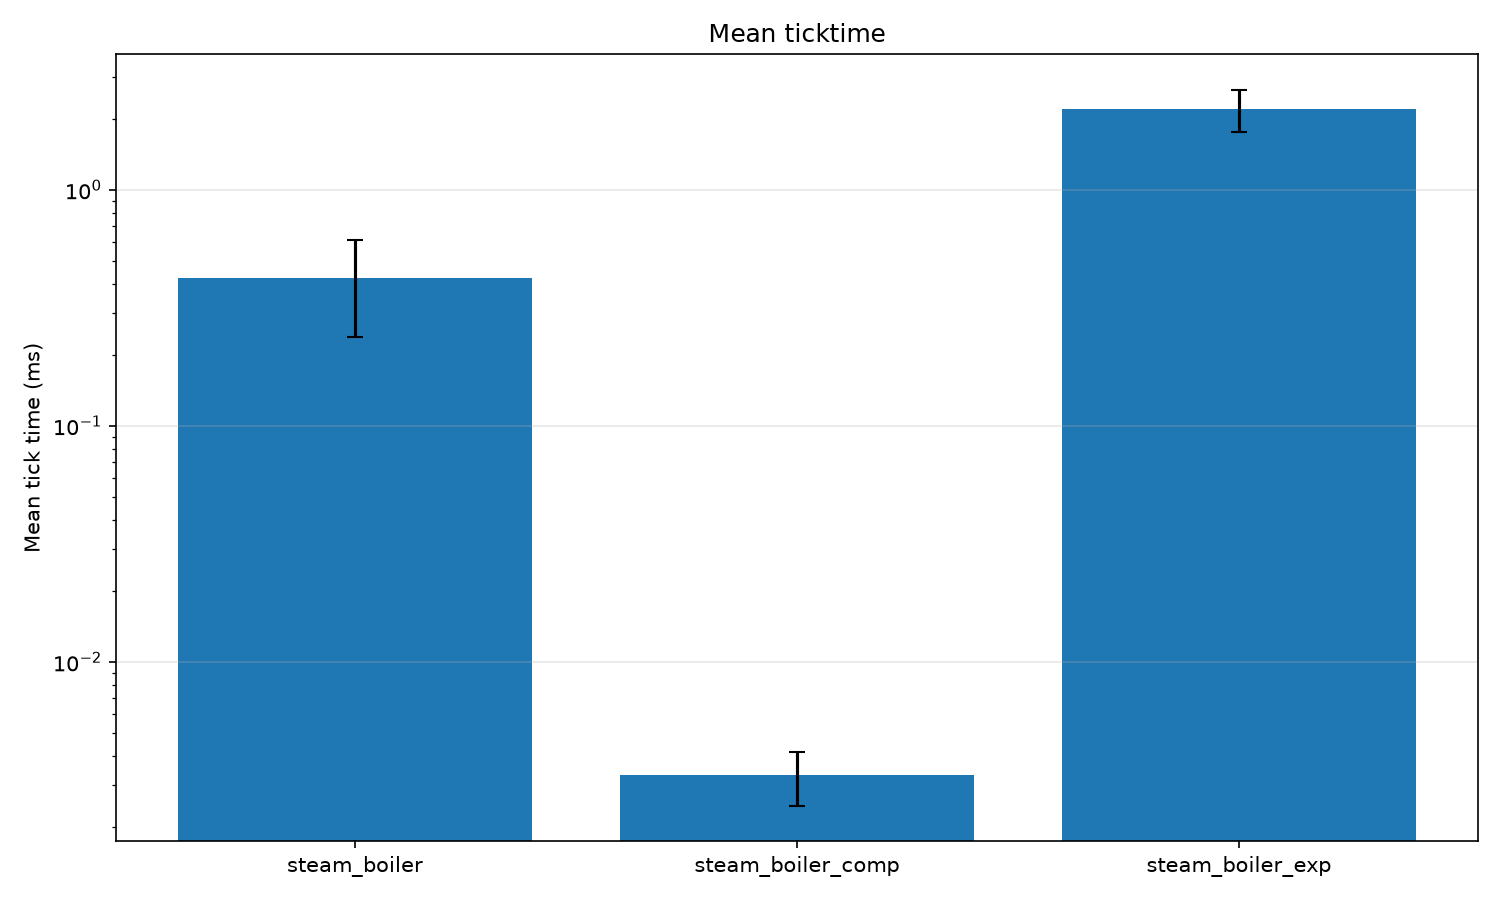
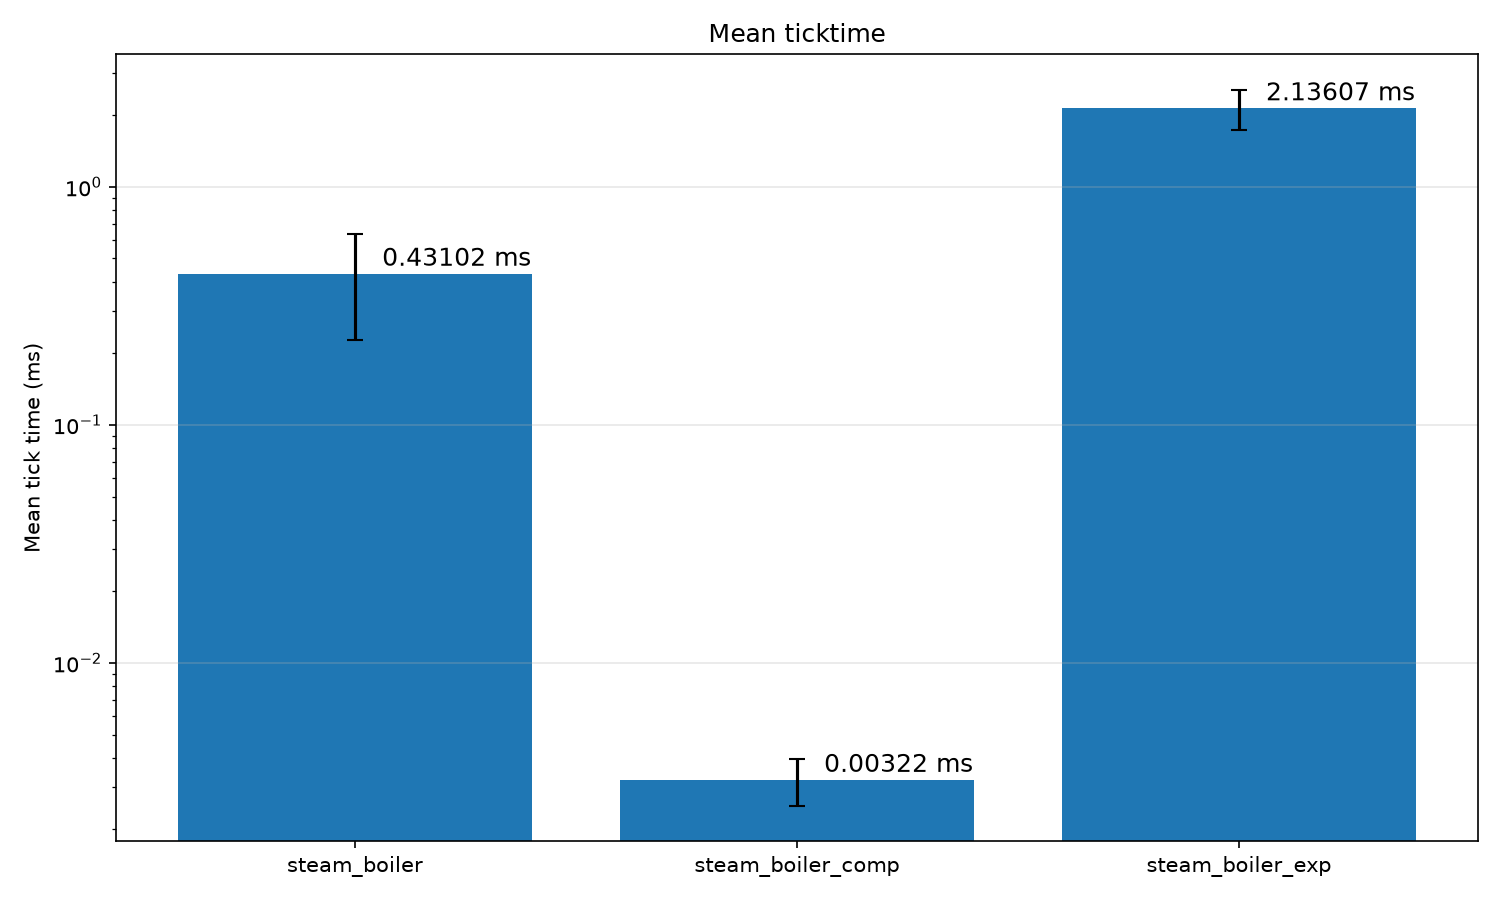
Small change to the timing ggraphs

diff --git a/testing/graphs/log2graph.py b/testing/graphs/log2graph.py
@@ -288,6 +288,15 @@ def plot_timings(
     stds = [t.std() if len(t) > 1 else 0.0 for t in ticks_per_file]
 
     ax.bar(x_ticks, means, yerr=stds, capsize=4)
+    for i, m in enumerate(means):
+        ax.text(
+            i + 0.23,
+            m * 1.02,
+            f"{m:,.5f} ms",
+            ha="center",
+            va="bottom",
+            fontdict={"fontsize": 12},
+        )
     ax.set_xticks(x_ticks)
     ax.set_xticklabels(labels, fontsize=10)
     ax.set_ylabel("Mean tick time (ms)")
